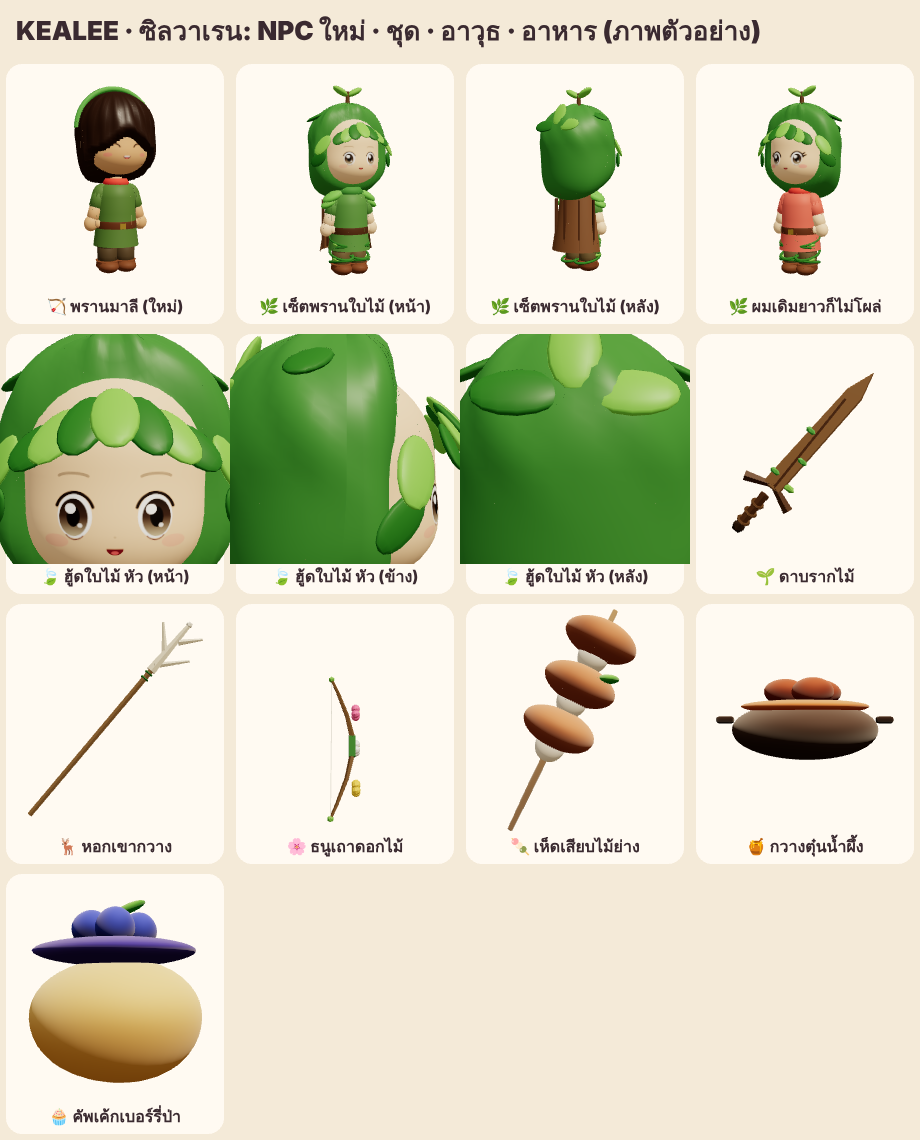
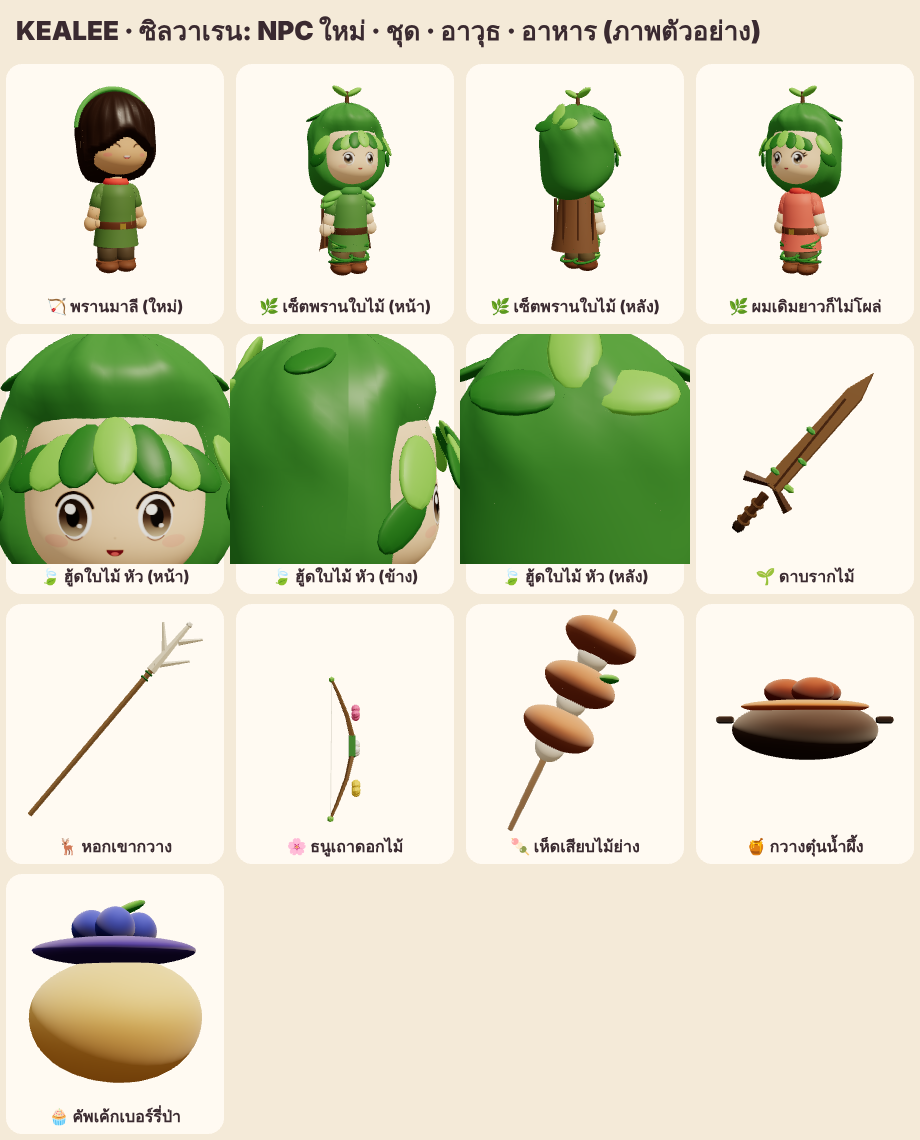
art(newgame): leaf hood covers the forehead
Claude-Session: https://claude.ai/code/session_01GPWeNez232vT9ersFNk7wt

diff --git a/newgame/src/vinyl.js b/newgame/src/vinyl.js
@@ -65,13 +65,13 @@ function hatPiece(h, kind, col, hairC) { if (!kind || kind === 'none') return; c
   else if (kind === 'ribbon') { const C = M(col || '#d83a3a'); for (const s2 of [-1, 1]) { const w = ball(H, .08, C, [.16 + s2 * .08, .27, .04], [1.1, .7, .45], 16); w.rotation.z = s2 * .4 } ball(H, .04, C, [.16, .27, .05]) }   /* v3.87 pinned on the hair */
   else if (kind === 'leafhood') { const C = M(col || '#4a8a3a'), L1 = M('#7ac04a'), L2 = M('#3a7a2a'), St = M('#6a4a2a');   /* v4.30 🌿 sylvaren: a snug leaf hood · it replaces the hair (a kingdom costume: no floating head) */
     const g2 = new THREE.SphereGeometry(1, 56, 40), p = g2.attributes.position, dv = V(0, 0, 0);
-    for (let i = 0; i < p.count; i++) { dv.set(p.getX(i), p.getY(i), p.getZ(i)).normalize(); const az = Math.atan2(dv.x, dv.z), base = surf(dv, 0), y = base.y, face = sst(.2, .5, dv.z) * sst(.36, .24, y), back = sst(.35, -.55, dv.z);
+    for (let i = 0; i < p.count; i++) { dv.set(p.getX(i), p.getY(i), p.getZ(i)).normalize(); const az = Math.atan2(dv.x, dv.z), base = surf(dv, 0), y = base.y, face = sst(.2, .5, dv.z) * sst(.2, .1, y), back = sst(.35, -.55, dv.z);
       let o = .05 + .014 * Math.max(0, Math.sin(az * 7 + dv.y * 5)) * sst(-.2, .6, dv.y); o = -.03 + (o + .03) * (1 - face); const q = surf(dv, o);
       if (back > 0) { const k = back * sst(.15, -.75, dv.y); q.y -= .12 * k; q.z -= .05 * k; q.x *= 1 + .1 * k }   /* it falls to the neck at the back */
       p.setXYZ(i, q.x * .96, q.y * .96, q.z * .96) }
     g2.computeVertexNormals(); add(H, g2, C);
     const leaf = (d, off, k, m, tilt) => { const q = surf(d.clone().normalize(), off).multiplyScalar(.96), l = ball(H, .085 * k, m, q.toArray(), [.6, 1, .18], 12); l.quaternion.setFromUnitVectors(V(0, 0, 1), q.clone().normalize()); l.rotateZ(tilt); l.rotateX(-.35); return l };   /* lies on the hood, its tip lifted a little */
-    for (let i = -3; i <= 3; i++) leaf(V(i * .2, .5 - Math.abs(i) * .05, .85), .06, 1 - Math.abs(i) * .06, i % 2 ? L2 : L1, i * .25);   /* a fringe of leaves over the brow */
+    for (let i = -3; i <= 3; i++) leaf(V(i * .21, .3 - Math.abs(i) * .035, .9), .06, .9 - Math.abs(i) * .05, i % 2 ? L2 : L1, i * .25);   /* a fringe of leaves over the brow */
     for (const s2 of [-1, 1]) { leaf(V(s2 * .85, .15, .45), .06, 1, L1, s2 * .5); leaf(V(s2 * .8, -.15, .3), .055, .9, L2, s2 * .8); leaf(V(s2 * .6, .7, -.2), .06, 1, L2, s2 * 1) }
     for (const [x, z, m] of [[0, -.5, L1], [.3, -.8, L2], [-.3, -.8, L1]]) leaf(V(x, .55, z), .06, 1.1, m, x * 2);
     const top = surf(V(0, 1, -.05), .06).multiplyScalar(.96); add(H, new THREE.CylinderGeometry(.012, .018, .1, 6), St, [top.x, top.y + .04, top.z]); for (const s2 of [-1, 1]) { const l = ball(H, .07, L1, [top.x + s2 * .06, top.y + .09, top.z], [1, .35, .55], 12); l.rotation.z = s2 * .5 } }
